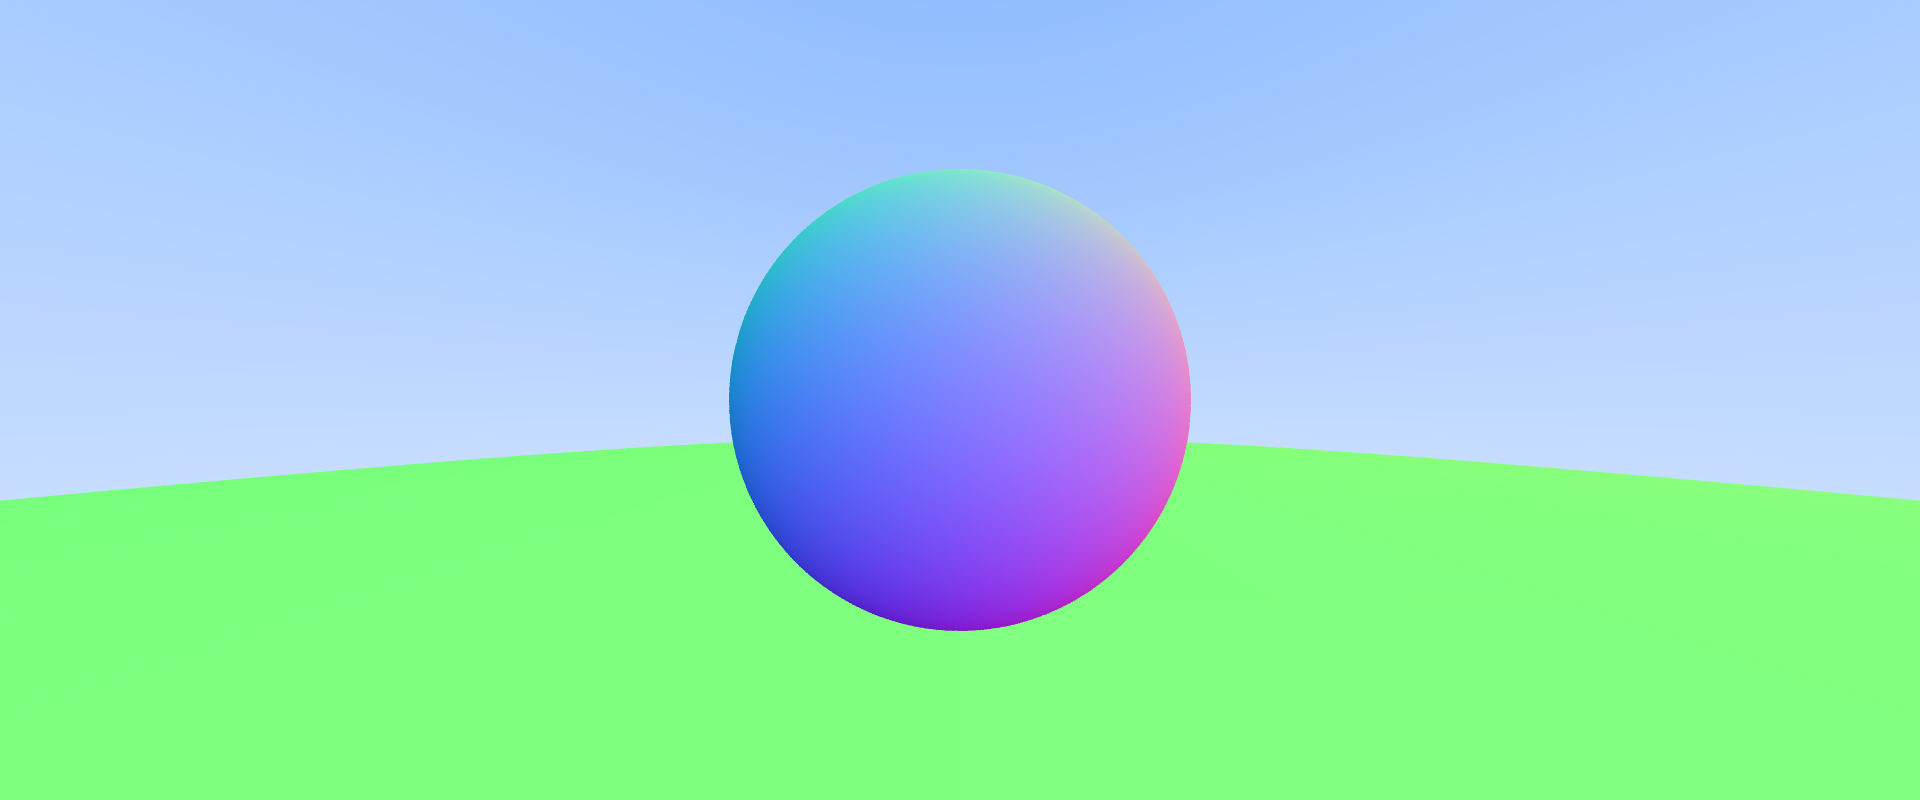
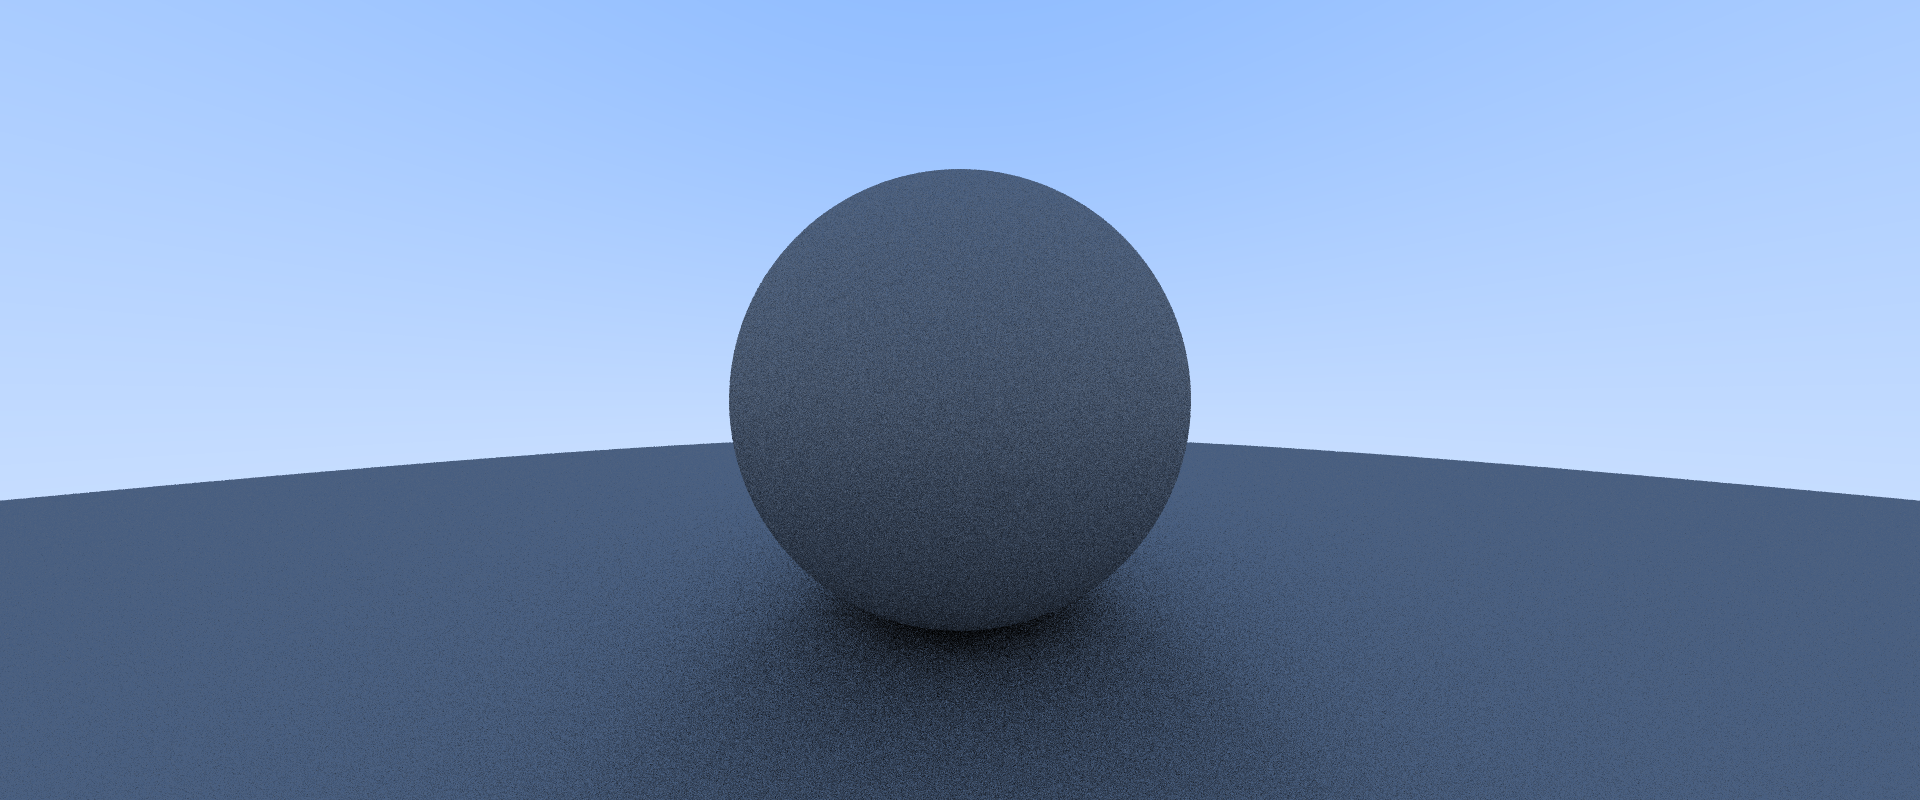
Added diffuse

diff --git a/src/camera.rs b/src/camera.rs
@@ -1,8 +1,8 @@
 use core::f64;
-
 use fastrand;
 use glam::{dvec3, DVec3};
 use image::{Rgb, RgbImage};
+use std::f64::consts::PI;
 
 use crate::{
     hittable::{Hittable, HittableList},
@@ -18,6 +18,7 @@ pub struct Camera {
     width: u32,
     height: u32,
     samples_per_pixel: u32,
+    max_depth: u32,
 }
 
 // NOTE: Shouldn't be here but will keep for now
@@ -27,8 +28,33 @@ fn to_rgb(data: DVec3) -> Rgb<u8> {
         .map(|x| (x.clamp(0.0, 0.999) * 256.0).floor() as u8))
 }
 
+fn nothing() -> (f64, f64) {
+    (0.0, 0.0)
+}
+
 fn random_square() -> (f64, f64) {
     (fastrand::f64() - 0.5, fastrand::f64() - 0.5)
+}
+
+fn random_unit_vector() -> DVec3 {
+    // Randomly distribute along sphere surface
+    let theta = fastrand::f64() * PI;
+    let phi = fastrand::f64() * 2.0 * PI;
+    dvec3(
+        theta.sin() * phi.cos(),
+        theta.sin() * phi.sin(),
+        theta.cos(),
+    )
+}
+
+fn random_on_hemisphere(normal: &DVec3) -> DVec3 {
+    let unit_vector = random_unit_vector();
+
+    if normal.dot(unit_vector) > 0.0 {
+        unit_vector
+    } else {
+        -unit_vector
+    }
 }
 
 impl Camera {
@@ -61,6 +87,7 @@ impl Camera {
             width,
             height,
             samples_per_pixel: 10,
+            max_depth: 10,
         }
     }
 
@@ -70,14 +97,20 @@ impl Camera {
         Ray::new(self.position, end - self.position)
     }
 
-    pub fn sample(&self, world: &HittableList, ray: &Ray) -> DVec3 {
-        if let Some(hit) = world.hit(&ray, 0.0, f64::MAX) {
-            return hit.normal.map(|x| 0.5 * (x + 1.0));
+    pub fn sample(&self, world: &HittableList, ray: &Ray, depth: u32) -> DVec3 {
+        // No light after depth exceeded
+        if depth <= 0 {
+            return DVec3::ZERO;
+        }
+
+        if let Some(hit) = world.hit(&ray, 1e-9, f64::MAX) {
+            let direction = hit.normal + random_unit_vector();
+            return 0.5 * self.sample(world, &Ray::new(hit.point, direction), depth - 1);
         }
 
         // Background
         let a = 0.5 * (ray.direction.y + 1.0);
-        (1.0 - a) * DVec3::ONE + a * dvec3(0.5, 0.7, 1.0)
+        DVec3::ONE.lerp(dvec3(0.5, 0.7, 1.0), a)
     }
 
     pub fn get_uv(&self, x: u32, y: u32) -> (f64, f64) {
@@ -94,7 +127,7 @@ impl Camera {
         for _ in 0..self.samples_per_pixel {
             let uv = self.get_uv(x, y);
             let ray = self.get_ray(uv);
-            out += self.sample(world, &ray);
+            out += self.sample(world, &ray, self.max_depth);
         }
 
         to_rgb(out / self.samples_per_pixel as f64)
@@ -113,5 +146,17 @@ impl Camera {
 impl Default for Camera {
     fn default() -> Self {
         Camera::new(1.0, 1.0, 90.0, DVec3::ZERO, 1920, 1080)
+    }
+}
+
+#[cfg(test)]
+mod tests {
+    use super::*;
+
+    #[test]
+    fn create_random() {
+        for _ in 0..100 {
+            println!("{}", random_unit_vector().length());
+        }
     }
 }
